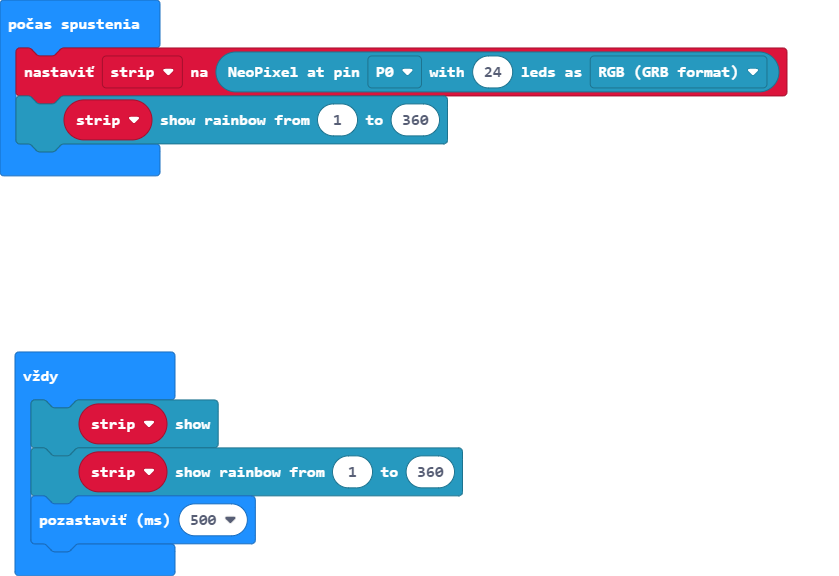
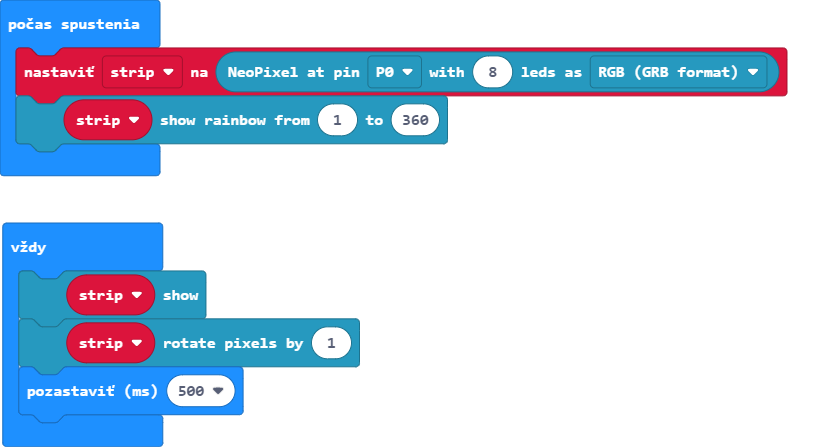
Update main.blocks, main.ts

Changed region(s): [[0.0, 0.0291, 0.9607, 0.4072], [0.0, 0.4944, 0.5578, 1.0]]

diff --git a/main.ts b/main.ts
@@ -1,7 +1,7 @@
-let strip = neopixel.create(DigitalPin.P0, 24, NeoPixelMode.RGB)
+let strip = neopixel.create(DigitalPin.P0, 8, NeoPixelMode.RGB)
 strip.showRainbow(1, 360)
 basic.forever(function () {
     strip.show()
-    strip.showRainbow(1, 360)
+    strip.rotate(1)
     basic.pause(500)
 })
